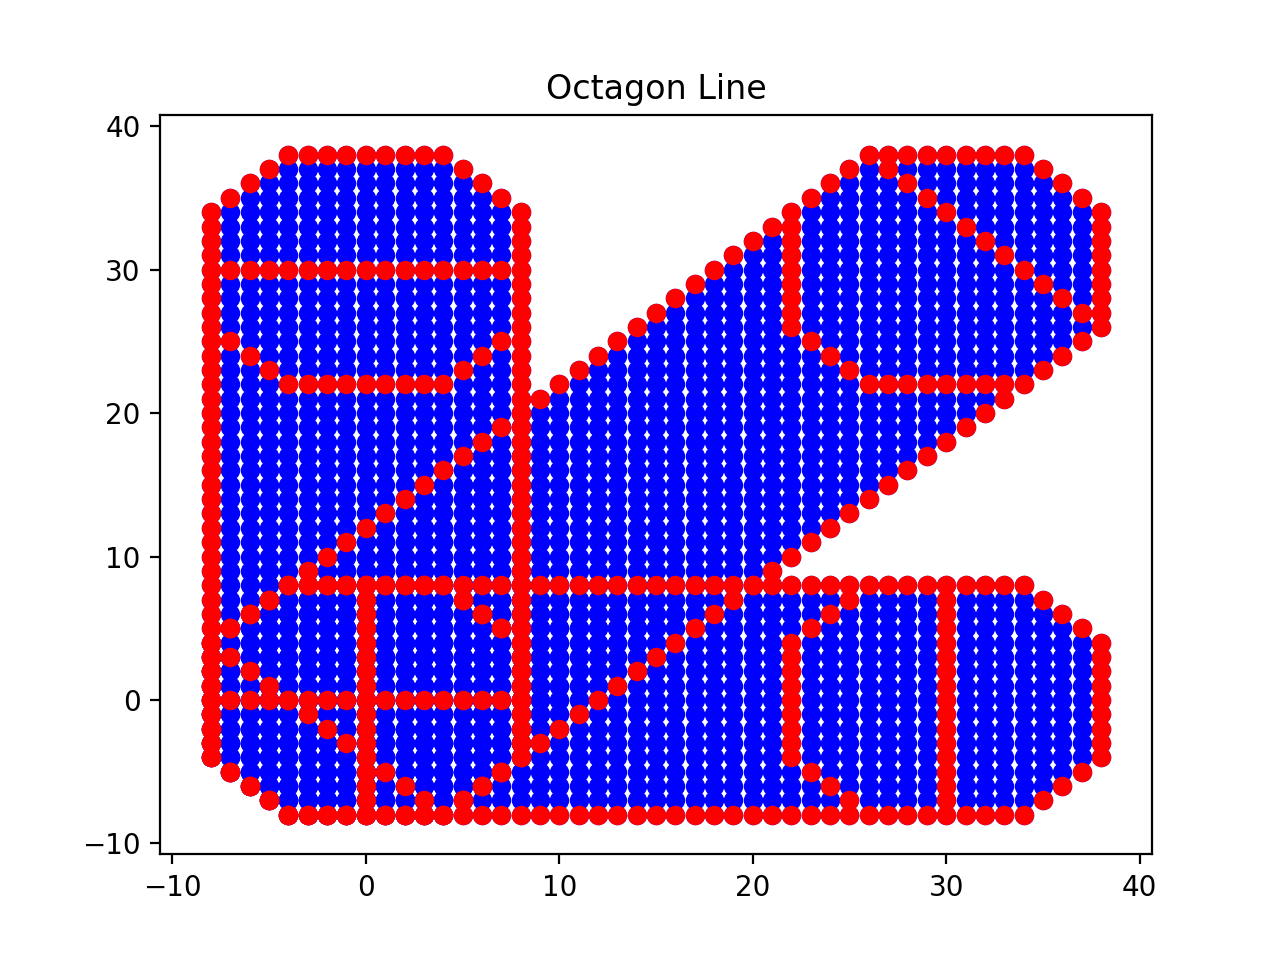
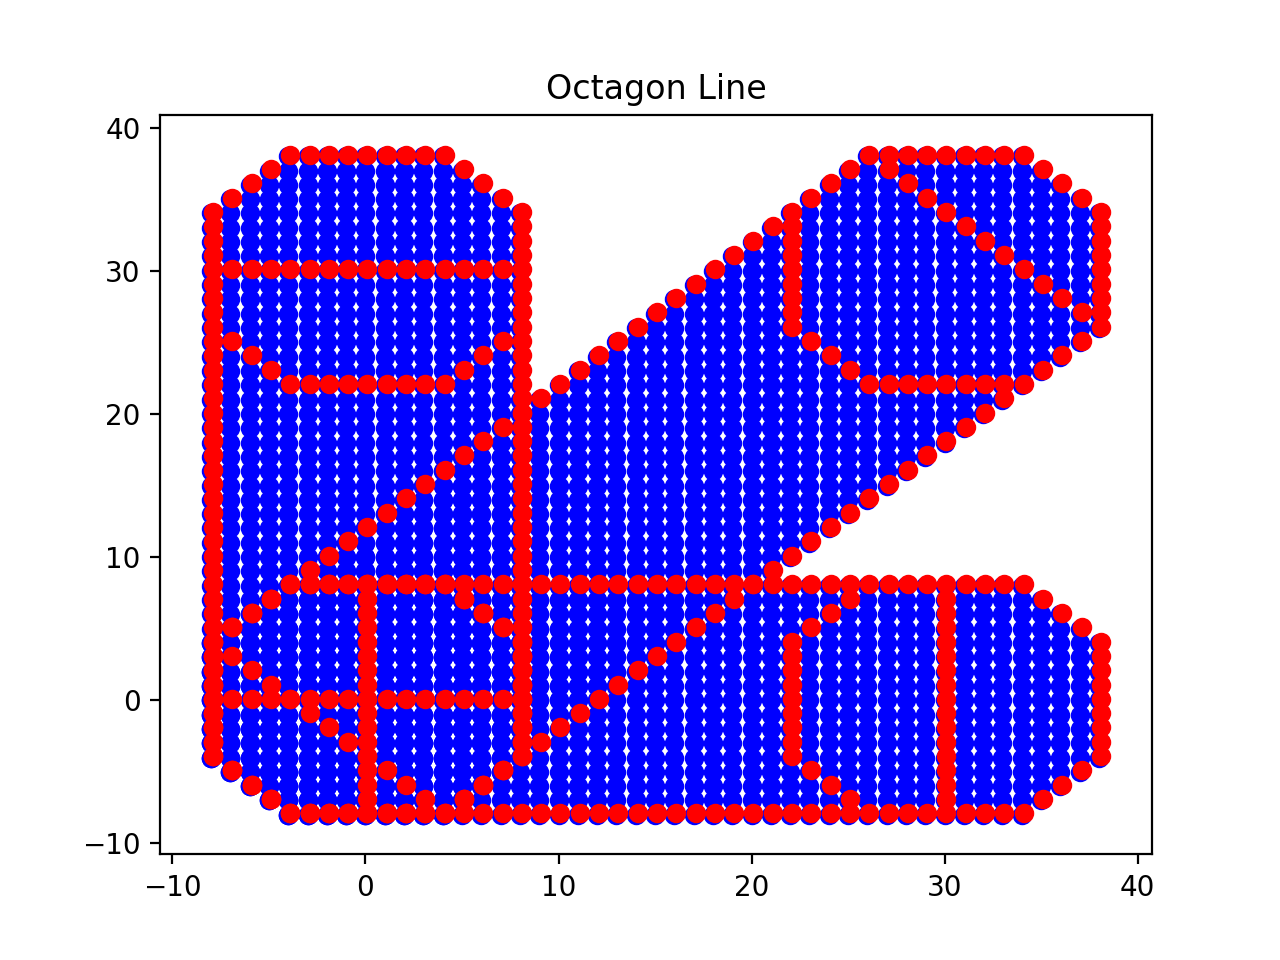
20190510 update

diff --git a/shape/OctagonLine.py b/shape/OctagonLine.py
@@ -143,11 +143,11 @@ if __name__ == '__main__':
         plt.scatter(pos[0], pos[1], color='blue')
         
     for pos in ol1:
-        plt.scatter(pos[0], pos[1], color='red')
+        plt.scatter(pos[0]+0.1, pos[1]+0.1, color='red')
     for pos in ol2:
-        plt.scatter(pos[0], pos[1], color='red')
+        plt.scatter(pos[0]+0.1, pos[1]+0.1, color='red')
     for pos in ol3:
-        plt.scatter(pos[0], pos[1], color='red')        
+        plt.scatter(pos[0]+0.1, pos[1]+0.1, color='red')        
     plt.savefig('octagon_line.png', dpi=200)
     plt.close()
     

diff --git a/shape/Circle.py b/shape/Circle.py
@@ -1,4 +1,16 @@
 # -*- coding: utf-8 -*-
+""" Circle Shape
+description:
+    
+content:
+    - putpixel
+    - drawCircle
+    - bresenhams_circle
+reference:
+    1. https://www.geeksforgeeks.org/bresenhams-circle-drawing-algorithm/
+author: Shin-Fu (Kelvin) Wu
+latest update: 2019/05/10
+"""
 from math import ceil
 
 def putpixel(x, y, pixel):

diff --git a/shape/Line.py b/shape/Line.py
@@ -1,5 +1,14 @@
 # -*- coding: utf-8 -*-
-
+""" Line Shape
+description:
+    
+content:
+    - bresenhams_line
+reference:
+    1. http://www.roguebasin.com/index.php?title=Bresenham%27s_Line_Algorithm
+author: Shin-Fu (Kelvin) Wu
+latest update: 2019/05/10
+"""
 def bresenhams_line(start, end, isList=False):
     if isList:
         line = []
